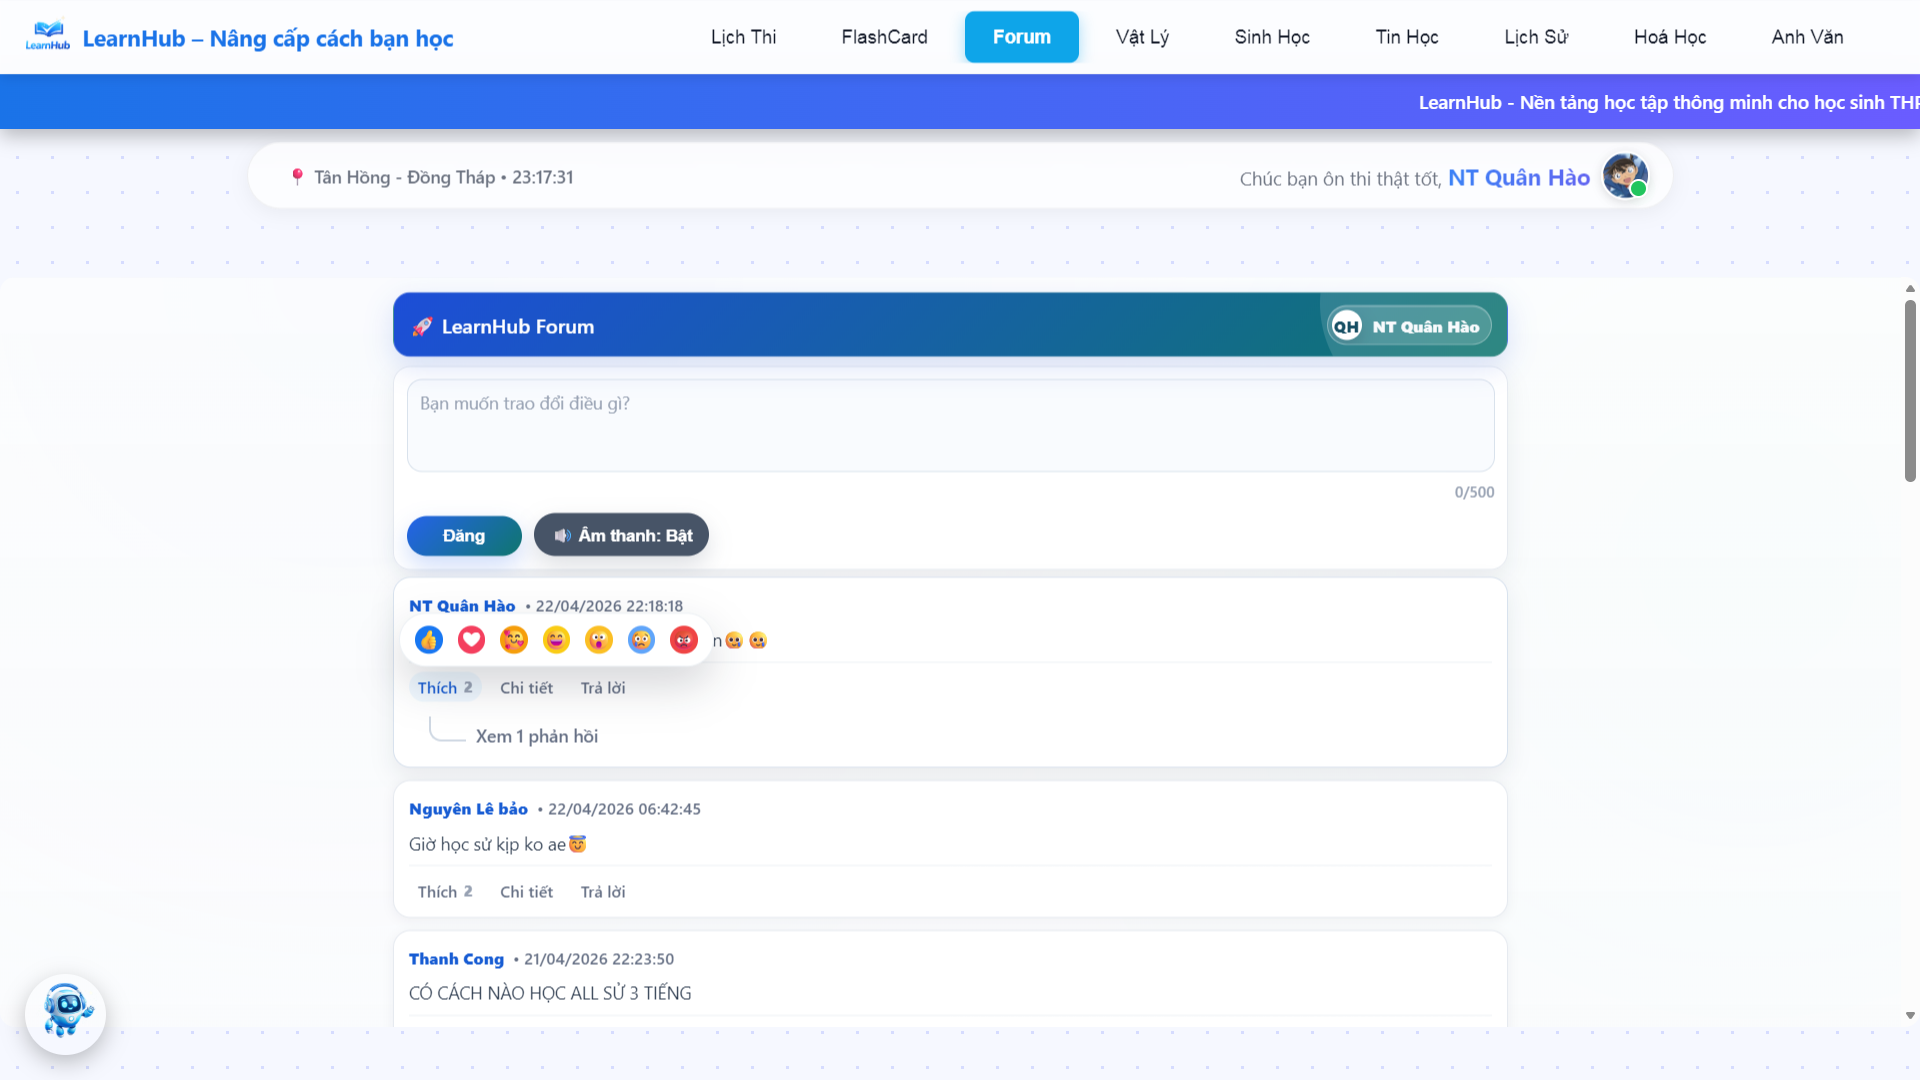
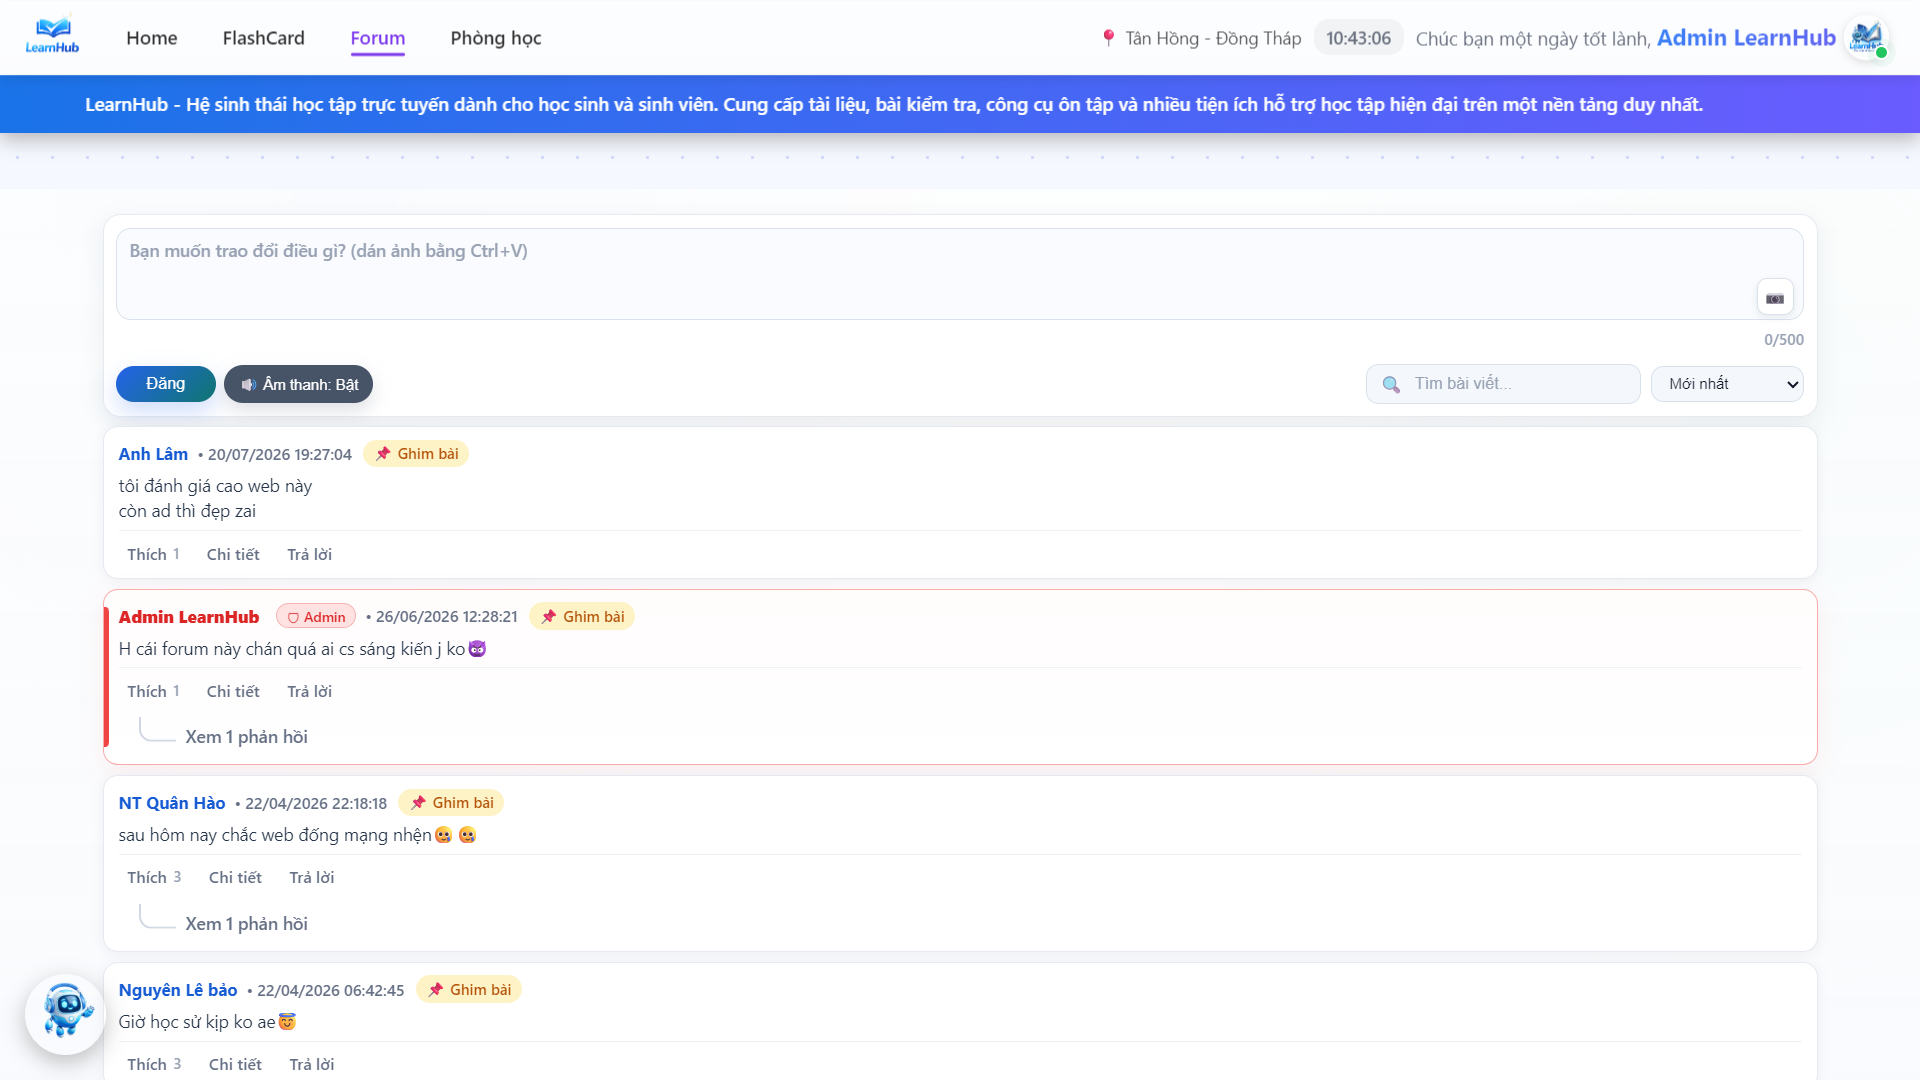
update 01/08/2026 10:55:03,66

diff --git a/login.html b/login.html
@@ -341,12 +341,12 @@
         <span>Tiếp tục với Google</span>
       </button>
 
-      <button class="auth-login-btn" onclick="githubLogin()" style="margin-top:14px;">
-        <img src="https://cdn.jsdelivr.net/gh/devicons/devicon/icons/github/github-original.svg" alt="GitHub" width="18" height="18" loading="lazy">
-        <span>Tiếp tục với GitHub</span>
+      <button class="auth-login-btn" onclick="facebookLogin()" style="margin-top:14px;">
+        <img src="https://upload.wikimedia.org/wikipedia/commons/5/51/Facebook_f_logo_%282019%29.svg" alt="Facebook" width="18" height="18" loading="lazy">
+        <span>Tiếp tục với Facebook</span>
       </button>
 
-      <button class="auth-login-btn" onclick="authComingSoon()" style="margin-top:14px;">
+      <button class="auth-login-btn" onclick="microsoftLogin()" style="margin-top:14px;">
         <img src="https://upload.wikimedia.org/wikipedia/commons/4/44/Microsoft_logo.svg" alt="Microsoft" width="18" height="18" loading="lazy">
         <span>Tiếp tục với Microsoft</span>
       </button>
@@ -965,6 +965,38 @@ window.googleLogin = async function() {
     if (error) throw error;
   } catch(error) {
     console.error("Lỗi Google Login:", error);
+    processingLogin = false;
+    showAuthNotice("Đăng nhập chưa thành công: " + error.message, "error", "Đã xảy ra lỗi");
+  }
+};
+
+window.facebookLogin = async function() {
+  if (maintenanceState.enabled) { window.location.replace('maintenance.html'); return; }
+  processingLogin = true;
+  try {
+    const { error } = await supabase.auth.signInWithOAuth({
+      provider: 'facebook',
+      options: { redirectTo: window.location.origin + window.location.pathname }
+    });
+    if (error) throw error;
+  } catch(error) {
+    console.error("Lỗi Facebook Login:", error);
+    processingLogin = false;
+    showAuthNotice("Đăng nhập chưa thành công: " + error.message, "error", "Đã xảy ra lỗi");
+  }
+};
+
+window.microsoftLogin = async function() {
+  if (maintenanceState.enabled) { window.location.replace('maintenance.html'); return; }
+  processingLogin = true;
+  try {
+    const { error } = await supabase.auth.signInWithOAuth({
+      provider: 'azure',
+      options: { redirectTo: window.location.origin + window.location.pathname }
+    });
+    if (error) throw error;
+  } catch(error) {
+    console.error("Lỗi Microsoft Login:", error);
     processingLogin = false;
     showAuthNotice("Đăng nhập chưa thành công: " + error.message, "error", "Đã xảy ra lỗi");
   }
